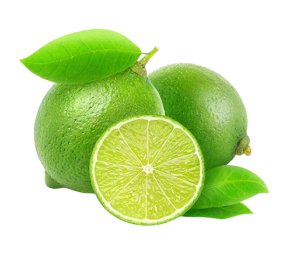
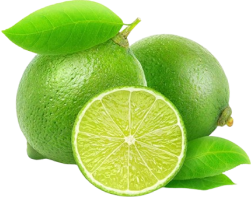
Sessão 2 em pré final
Foram feitos algumas conclusões a respeito da sessão 2, alguns recortes nas imagens para que não sobre espaçamento na pagina, e o desenvolvimento dos cards com suas respectivas frutas.

diff --git a/style.css b/style.css
@@ -314,27 +314,65 @@ P {
     justify-content: space-between;
     align-items: center;
     height: 19vw;
-    width: 14vw;
+    width: 13vw;
     background: #152117;
     border-radius: 3vw 3vw 3vw 3vw;
     color: #fff;
     font-weight: 600;
-    font-size: 1.25vw;
-    box-shadow: 0px 2px 10px 0px #00000034;
+    font-size: 2.25vw;
+    margin-bottom: 2vw;
 }
 
 .fruit-card-button{
-    width: 14vw;
+    width: 13vw;
     height: 4vw;
     border-radius: 0px 0px 2.9vw 2.9vw;
     background: #fff;
     color: #8fa639;
     font-weight: 600;
     font-size: 1.25vw;
+    transition: none;
 }
 
 .fruit-card-container > img {
     position: relative;
     translate: -0% -30%;
 
+}
+
+#lemon-card {
+    background: #428D0F;
+    position: relative;
+    top: 2vw;
+}
+
+#kiwi-card {
+    background: #97A930;
+    height: 21vw;
+    width: 14vw;
+    margin: 0vw 1.25vw;
+    position: relative;
+    top: 2vw;
+}
+
+#kiwi-card > a > button {
+    width: 14vw;
+}
+
+#watermelon-card {
+    background: #748F27;
+    position: relative;
+    top: 3vw;
+}
+
+#lemon-card > img {
+    width: 12vw;
+}
+
+#kiwi-card > img {
+    width: 16vw;
+}
+
+#watermelon-card > img {
+    width: 12vw;
 }

diff --git a/index.html b/index.html
@@ -75,17 +75,17 @@
             </div>
             <!-- produtos em display *****Adicionar imagens com produtos e seus respectivos botões-->
              <div id="image-set">
-                <div class="fruit-card-container">
+                <div class="fruit-card-container" id="lemon-card">
                     <img src="images/lemon.png">
                     LIMÃO
                     <a href="#"><button class="fruit-card-button">COMPRAR</button></a>
                 </div>
-                <div class="fruit-card-container">
+                <div class="fruit-card-container" id="kiwi-card">
                     <img src="images/kiwi.png">
                     KIWI
                     <a href="#"><button class="fruit-card-button">COMPRAR</button></a>
                 </div>
-                <div class="fruit-card-container">
+                <div class="fruit-card-container" id="watermelon-card">
                     <img src="images/watermelon-card.png">
                     MELANCIA
                     <a href="#"><button class="fruit-card-button">COMPRAR</button></a>
